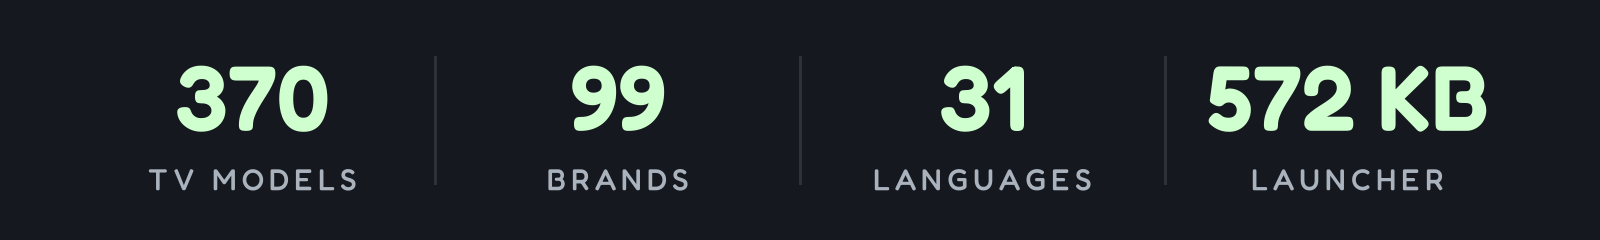
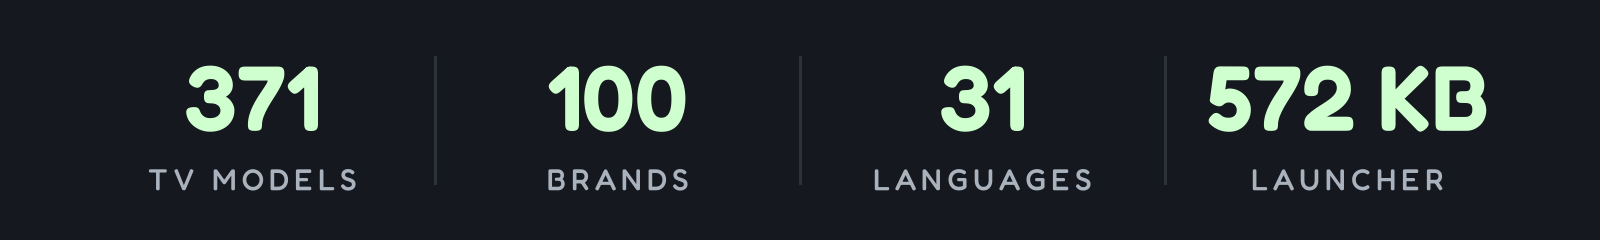
README: 100 brands and 371 TV models with DEXP; cards redrawn

Changed region(s): [[0.0938, 0.2625, 0.2188, 0.5542], [0.3438, 0.2625, 0.4375, 0.5542]]

diff --git a/tools/readme_stats.py b/tools/readme_stats.py
@@ -71,7 +71,7 @@ try:
 except ImportError:
     sys.exit("readme_stats.py needs Pillow: tools/venv/bin/pip install -r tools/requirements-perf.txt")
 
-STATS = [("370", "TV MODELS"), ("99", "BRANDS"), ("31", "LANGUAGES"), ("572 KB", "LAUNCHER")]
+STATS = [("371", "TV MODELS"), ("100", "BRANDS"), ("31", "LANGUAGES"), ("572 KB", "LAUNCHER")]
 W, H = 1600, 240
 img = Image.new("RGB", (W, H), "#15181e"); d = ImageDraw.Draw(img)
 def f(size, wt):

diff --git a/README.nl.md b/README.nl.md
@@ -26,7 +26,7 @@
 </p>
 
 <p align="center">
-  <a href="docs/PRESS.md"><img src="docs/card-halloween.jpg" alt="370 tv-modellen · 99 merken · 31 talen · launcher van 572 KB. Genoemd in TechCrunch, TechRadar, Tom's Guide, Mashable, Android Authority, XDA, FlatpanelsHD, It's FOSS, Phandroid, GIGAZINE, Xataka, WinFuture, Frandroid, Macitynet, Techaeris, TechPP en nog 298 media: 314 artikelen uit 44 landen. Voorheen: het standaard Google TV-startscherm met een gesponsorde advertentie. Daarna: de Clean Your TV-launcher." width="800"></a>
+  <a href="docs/PRESS.md"><img src="docs/card-halloween.jpg" alt="371 tv-modellen · 100 merken · 31 talen · launcher van 572 KB. Genoemd in TechCrunch, TechRadar, Tom's Guide, Mashable, Android Authority, XDA, FlatpanelsHD, It's FOSS, Phandroid, GIGAZINE, Xataka, WinFuture, Frandroid, Macitynet, Techaeris, TechPP en nog 298 media: 314 artikelen uit 44 landen. Voorheen: het standaard Google TV-startscherm met een gesponsorde advertentie. Daarna: de Clean Your TV-launcher." width="800"></a>
 </p>
 
 **De virale tweet:** [x.com/gathint/status/2111379569030939102](https://x.com/gathint/status/2111379569030939102)
@@ -128,12 +128,12 @@ Tested lists from contributors, one folder per model in [`examples/`](examples/)
 | [FFalcon](https://cleanyour.tv/tvs?q=FFalcon) · 2 | [Hitachi](https://cleanyour.tv/tvs?q=Hitachi) · 2 | [Insignia Fire TV](https://cleanyour.tv/tvs?q=Insignia%20Fire%20TV) · 2 | [Kalley](https://cleanyour.tv/tvs?q=Kalley) · 2 | [Kogan](https://cleanyour.tv/tvs?q=Kogan) · 2 | [Nokia](https://cleanyour.tv/tvs?q=Nokia) · 2 |
 
 <details>
-<summary>+55 more brands and 14 projector brands</summary>
+<summary>+56 more brands and 14 projector brands</summary>
 
 **onn** 2 · **PRISM+** 2 · **RockTek** 2 · **Sankey** 2 · **Sber** 2 · **Vidda** 2 ·
-Acer · AiPro2K · AIWA · AQUA · Artel · ASUS · Beko · BGH · Caxium · Cecotec · Challenger · Compac · Dcolor · Dialog ·
-DYON · Freebox · Home+ · Impex · INCLO · Karbonn · Koryo · KTC · Liberton · Lumio · Magyar Telekom · Master-G · MECOOL ·
-MTC · Next · Noblex · OK. · OPPO · Panavox · PEAQ · Polytron · PPTV · Prosonic · Salora · SANYO · Seleco ·
+Acer · AiPro2K · AIWA · AQUA · Artel · ASUS · Beko · BGH · Caxium · Cecotec · Challenger · Compac · Dcolor · DEXP ·
+Dialog · DYON · Freebox · Home+ · Impex · INCLO · Karbonn · Koryo · KTC · Liberton · Lumio · Magyar Telekom · Master-G ·
+MECOOL · MTC · Next · Noblex · OK. · OPPO · Panavox · PEAQ · Polytron · PPTV · Prosonic · Salora · SANYO · Seleco ·
 Super General · Síragon · Tele System · TiVo · Tornado · Turkcell · Tuvio · Verizon · Vision ·
 Alwtniet, Anker Nebula, BYINTEK, Epson, Formovie, Gadnic, HOTACK, HY320, JMGO, Magcubic, Portronics, Stellamore, Wanbo and XGIMI projectors
 
@@ -183,6 +183,7 @@ Alwtniet, Anker Nebula, BYINTEK, Epson, Formovie, Gadnic, HOTACK, HY320, JMGO, M
 | Compac ATV R2 (SCBC R2, Realtek RTD285O) | Android TV 9 |
 | Coocaa P9 projector (MediaTek mt5862), China | Android 9 (Coocaa OS) |
 | Dcolor GD2 (YHT) | Google TV 14 (SDK 34) |
+| DEXP A651 (Changhong AI PONT, longshan) | Android TV 14 |
 | Dialog ViU (SEI Robotics SEI103DL, Amlogic, NES middleware), Sri Lanka | Android TV 9 |
 | DYON 2K Android TV (MTC, komagome, MediaTek m5621), Germany | Android TV 11 |
 | EKO 2K Google TV (MTC-built, tennoji, MediaTek mt5867 / T56) | Google TV 14 |

diff --git a/examples/README.md b/examples/README.md
@@ -42,6 +42,7 @@ on that firmware, grouped and commented. These are starting points: comment out 
 | `compac-atv-r2/` | Compac ATV R2 (SCBC R2, Realtek RTD285O) | Android TV 9 | Same SCBC platform and build as the SANYO ATV R2: data-consent agent, Vewd, S-Channel rows, E-SHOW demo, recommendation rows, partner auto-installs, TV Booster; `com.realtek.leanbacklauncher.partnercustomizer` must stay or the stock Home loses its Inputs button; OTA, Assistant and FastCast kept, Chromecast off by choice |
 | `coocaa-p9-projector/` | Coocaa P9 projector (MediaTek mt5862), China | Android 9 (Coocaa OS) | Coocaa ad engine, push, auto-installer, telemetry, stores and theme packages off; ADB entry via 7x LEFT on About this TV; persist.sys.bootvideo.time=1 skips boot ad; keep `com.tianci.movieplatform` and projector plugin `com.coocaa.home.plug.projection`; launcher handover via `setprop persist.service.homepage` + `set-home-activity`; reboot-checked |
 | `dcolor-gd2/` | Dcolor GD2 (YHT) | Google TV 14 (SDK 34) | Manufacturer: SDMC; Google Play services present; came with Google TV; build: Dcolor/GD2/YHT:14/URO4.260304.027/15200246:user/release-keys; information read from the TV on 2026-10-24 |
+| `dexp-a651/` | DEXP A651 (Changhong AI PONT, longshan) | Android TV 14 | Anoki ACR, FAST channels, AI PONT, Homwee store/help, partner setup; homwee.upgrade kept as the RuStore installer, and the factory RuStore 1.36 shows an empty catalog until updated from rustore.ru; HomeKeyService (power_on_home) costs volume key repeat: [notes](dexp-a651/README.md) |
 | `dialog-viu-sei103dl/` | Dialog ViU (SEI Robotics SEI103DL, Amlogic, NES middleware), Sri Lanka | Android TV 9 | Dialog Axiata operator IPTV box: NES bug tracker, Dialog TR-069 remote management, NES Skyway boot ads and silent installs (likely OTA too), partner auto-installs, Google recommendations, factory test app, preloads; Chromecast, voice, remote updater and Backdrop listed as optional; Dialog's home `com.dialog.tv` last, needs `STOCK_LAUNCHER=none` and removes Dialog's channels (Dialog Play from Play is incompatible, a sideloaded copy fails PairIP); remote's Apps/Prime Video/Catch-up are NES keys 5116/5119/5122 that `app_keys` can remap; 1 GB; reboot-checked |
 | `dyon-2k-android-tv/` | DYON 2K Android TV (MTC, komagome, MediaTek m5621), Germany | Android TV 11 | First DYON list, same MTC/JVC firmware family as [mtc-uk-2k-android-tv](mtc-uk-2k-android-tv/): Anoki ACR, partner auto-installs, recommendation rows and partner customizer, Google feedback; StreamTV FAST channels, ZDF Mediathek, RTL+, YouTube Music, Play Movies/Games, Assistant, phone remote and Backdrop off by choice; Chromecast kept; setupwraith owns the first-setup Wi-Fi, leave it; every remote button works with no key service; time zone ships as a fixed `Etc/GMT-2` |
 | `eko-2k-google-tv-tennoji/` | EKO 2K Google TV (MTC-built, tennoji, MediaTek mt5867 / T56) | Google TV 14 | First EKO list: Anoki ACR opt-in, Android ad services, feedback, partner setup; Assistant, Miracast, Netflix, Prime Video, YouTube Music off by choice, Chromecast kept; setupwraith owned the setup Wi-Fi (forget and re-join first); `fusion.android.tv.demo` handles the Input key; Live TV takes the tvcenter launch entry, not the tuner passthrough URI; reboot-checked |

diff --git a/README.de.md b/README.de.md
@@ -20,7 +20,7 @@
 </p>
 
 <p align="center">
-  <a href="docs/PRESS.md"><img src="docs/card-halloween.jpg" alt="370 TV-Modelle · 99 Marken · 31 Sprachen · Launcher mit 572 KB. Erwähnt in TechCrunch, TechRadar, Tom's Guide, Mashable, Android Authority, XDA, FlatpanelsHD, It's FOSS, Phandroid, GIGAZINE, Xataka, WinFuture, Frandroid, Macitynet, Techaeris, TechPP und 298 weitere: 314 Artikel aus 44 Ländern. Vorher: der Google-TV-Startbildschirm mit einer bezahlten Anzeige. Nachher: der Clean-Your-TV-Launcher." width="800"></a>
+  <a href="docs/PRESS.md"><img src="docs/card-halloween.jpg" alt="371 TV-Modelle · 100 Marken · 31 Sprachen · Launcher mit 572 KB. Erwähnt in TechCrunch, TechRadar, Tom's Guide, Mashable, Android Authority, XDA, FlatpanelsHD, It's FOSS, Phandroid, GIGAZINE, Xataka, WinFuture, Frandroid, Macitynet, Techaeris, TechPP und 298 weitere: 314 Artikel aus 44 Ländern. Vorher: der Google-TV-Startbildschirm mit einer bezahlten Anzeige. Nachher: der Clean-Your-TV-Launcher." width="800"></a>
 </p>
 
 ## Einstieg
@@ -135,12 +135,12 @@ meisten Listen, jede mit ihren Modellen auf der Website verlinkt:
 | [FFalcon](https://cleanyour.tv/tvs?q=FFalcon) · 2 | [Hitachi](https://cleanyour.tv/tvs?q=Hitachi) · 2 | [Insignia Fire TV](https://cleanyour.tv/tvs?q=Insignia%20Fire%20TV) · 2 | [Kalley](https://cleanyour.tv/tvs?q=Kalley) · 2 | [Kogan](https://cleanyour.tv/tvs?q=Kogan) · 2 | [Nokia](https://cleanyour.tv/tvs?q=Nokia) · 2 |
 
 <details>
-<summary>+55 more brands and 14 projector brands</summary>
+<summary>+56 more brands and 14 projector brands</summary>
 
 **onn** 2 · **PRISM+** 2 · **RockTek** 2 · **Sankey** 2 · **Sber** 2 · **Vidda** 2 ·
-Acer · AiPro2K · AIWA · AQUA · Artel · ASUS · Beko · BGH · Caxium · Cecotec · Challenger · Compac · Dcolor · Dialog ·
-DYON · Freebox · Home+ · Impex · INCLO · Karbonn · Koryo · KTC · Liberton · Lumio · Magyar Telekom · Master-G · MECOOL ·
-MTC · Next · Noblex · OK. · OPPO · Panavox · PEAQ · Polytron · PPTV · Prosonic · Salora · SANYO · Seleco ·
+Acer · AiPro2K · AIWA · AQUA · Artel · ASUS · Beko · BGH · Caxium · Cecotec · Challenger · Compac · Dcolor · DEXP ·
+Dialog · DYON · Freebox · Home+ · Impex · INCLO · Karbonn · Koryo · KTC · Liberton · Lumio · Magyar Telekom · Master-G ·
+MECOOL · MTC · Next · Noblex · OK. · OPPO · Panavox · PEAQ · Polytron · PPTV · Prosonic · Salora · SANYO · Seleco ·
 Super General · Síragon · Tele System · TiVo · Tornado · Turkcell · Tuvio · Verizon · Vision ·
 Alwtniet, Anker Nebula, BYINTEK, Epson, Formovie, Gadnic, HOTACK, HY320, JMGO, Magcubic, Portronics, Stellamore, Wanbo and XGIMI projectors
 

diff --git a/README.md b/README.md
@@ -24,7 +24,7 @@
 </p>
 
 <p align="center">
-  <a href="docs/PRESS.md"><img src="docs/card-halloween.jpg" alt="370 TV models · 99 brands · 31 languages · 572 KB launcher. Featured in TechCrunch, TechRadar, Tom's Guide, Mashable, Android Authority, XDA, FlatpanelsHD, It's FOSS, Phandroid, GIGAZINE, Xataka, WinFuture, Frandroid, Macitynet, Techaeris, TechPP and 298 more: 314 articles from 44 countries. Before: stock Google TV home with a sponsored ad. After: the Clean Your TV launcher." width="800"></a>
+  <a href="docs/PRESS.md"><img src="docs/card-halloween.jpg" alt="371 TV models · 100 brands · 31 languages · 572 KB launcher. Featured in TechCrunch, TechRadar, Tom's Guide, Mashable, Android Authority, XDA, FlatpanelsHD, It's FOSS, Phandroid, GIGAZINE, Xataka, WinFuture, Frandroid, Macitynet, Techaeris, TechPP and 298 more: 314 articles from 44 countries. Before: stock Google TV home with a sponsored ad. After: the Clean Your TV launcher." width="800"></a>
 </p>
 
 ## Start here
@@ -141,12 +141,12 @@ most lists, each linked to its models on the website:
 | [FFalcon](https://cleanyour.tv/tvs?q=FFalcon) · 2 | [Hitachi](https://cleanyour.tv/tvs?q=Hitachi) · 2 | [Insignia Fire TV](https://cleanyour.tv/tvs?q=Insignia%20Fire%20TV) · 2 | [Kalley](https://cleanyour.tv/tvs?q=Kalley) · 2 | [Kogan](https://cleanyour.tv/tvs?q=Kogan) · 2 | [Nokia](https://cleanyour.tv/tvs?q=Nokia) · 2 |
 
 <details>
-<summary>+55 more brands and 14 projector brands</summary>
+<summary>+56 more brands and 14 projector brands</summary>
 
 **onn** 2 · **PRISM+** 2 · **RockTek** 2 · **Sankey** 2 · **Sber** 2 · **Vidda** 2 ·
-Acer · AiPro2K · AIWA · AQUA · Artel · ASUS · Beko · BGH · Caxium · Cecotec · Challenger · Compac · Dcolor · Dialog ·
-DYON · Freebox · Home+ · Impex · INCLO · Karbonn · Koryo · KTC · Liberton · Lumio · Magyar Telekom · Master-G · MECOOL ·
-MTC · Next · Noblex · OK. · OPPO · Panavox · PEAQ · Polytron · PPTV · Prosonic · Salora · SANYO · Seleco ·
+Acer · AiPro2K · AIWA · AQUA · Artel · ASUS · Beko · BGH · Caxium · Cecotec · Challenger · Compac · Dcolor · DEXP ·
+Dialog · DYON · Freebox · Home+ · Impex · INCLO · Karbonn · Koryo · KTC · Liberton · Lumio · Magyar Telekom · Master-G ·
+MECOOL · MTC · Next · Noblex · OK. · OPPO · Panavox · PEAQ · Polytron · PPTV · Prosonic · Salora · SANYO · Seleco ·
 Super General · Síragon · Tele System · TiVo · Tornado · Turkcell · Tuvio · Verizon · Vision ·
 Alwtniet, Anker Nebula, BYINTEK, Epson, Formovie, Gadnic, HOTACK, HY320, JMGO, Magcubic, Portronics, Stellamore, Wanbo and XGIMI projectors
 
